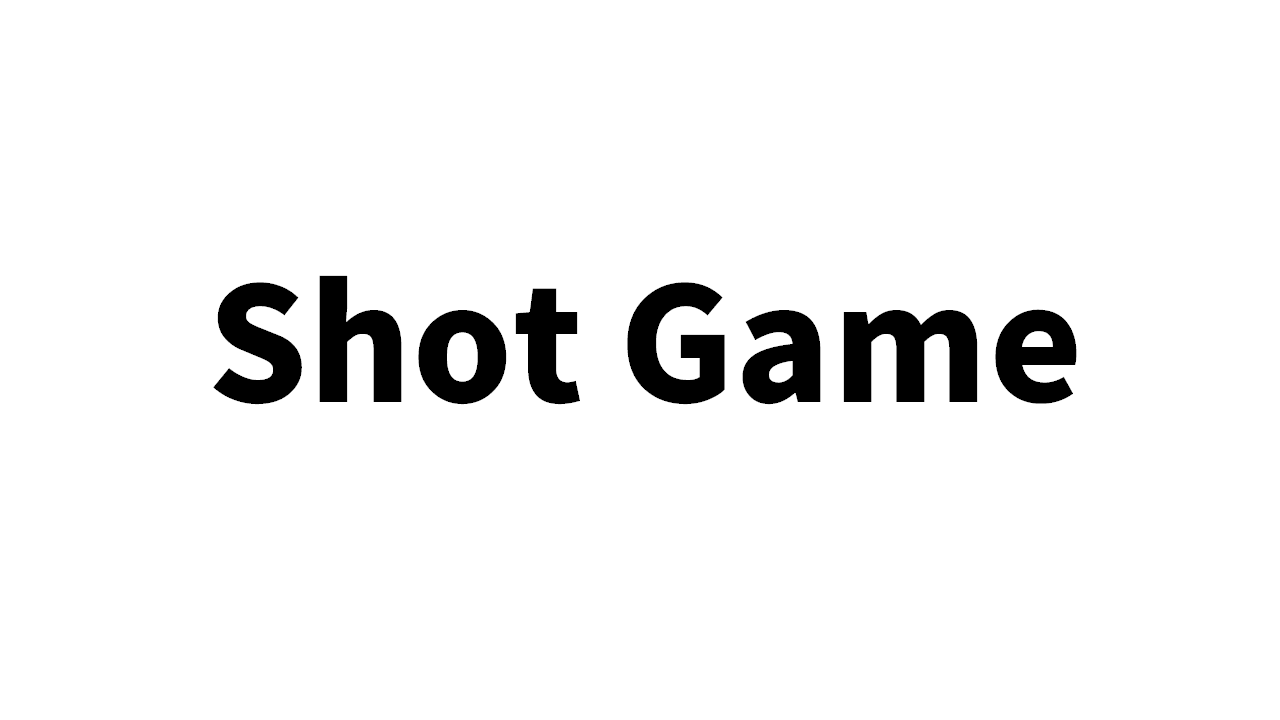
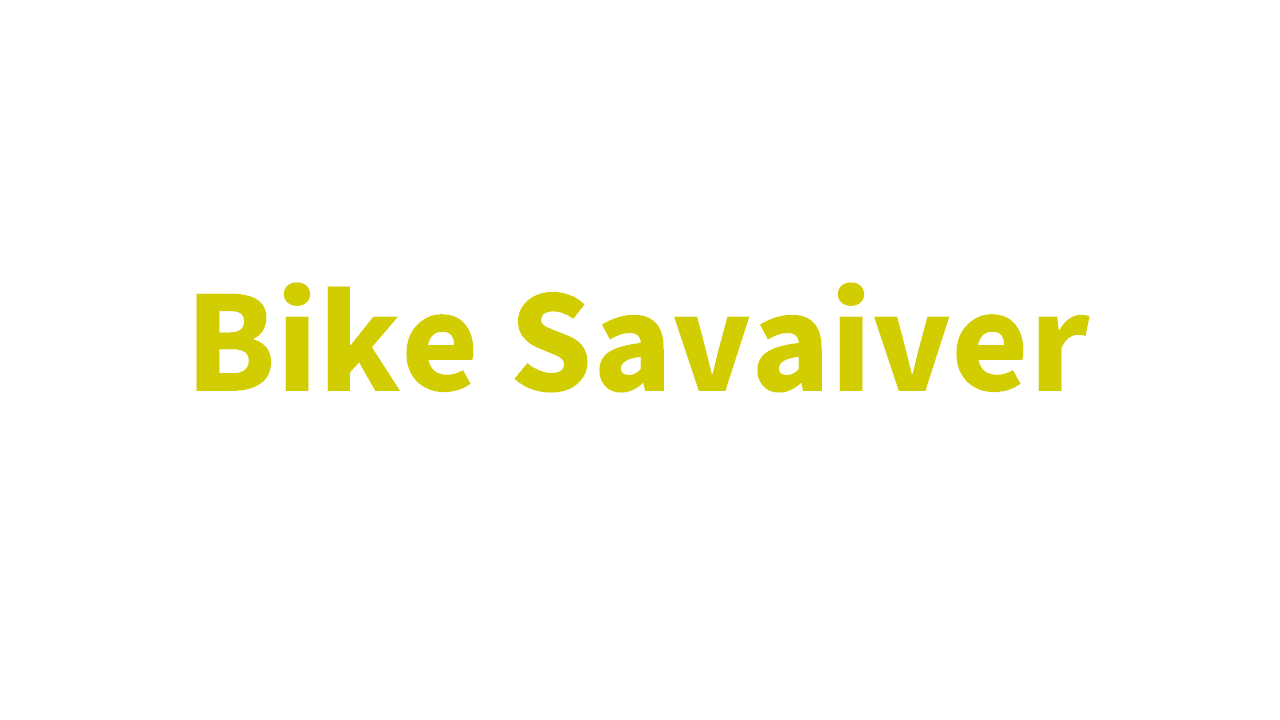
シーン切り替え完了

Changed region(s): [[0.1562, 0.3667, 0.875, 0.5806]]

diff --git a/DirectXGame/TitleScnce.cpp b/DirectXGame/TitleScnce.cpp
@@ -1,4 +1,6 @@
+#define NOMINMAX
 #include "TitleScnce.h"
+#include <algorithm> // std::min/max/absを使うために必要
 #include <numbers>
 
 TitleScnce::~TitleScnce() {
@@ -9,6 +11,11 @@ TitleScnce::~TitleScnce() {
 	delete sprite2_;
 	delete sprite3_;
 	delete sprite4_;
+
+	// ★追加: スライドスプライトの解放
+	for (int i = 0; i < kSlideCount; ++i) {
+		delete slideSprites_[i];
+	}
 }
 
 void TitleScnce::Initialize() {
@@ -30,11 +37,14 @@ void TitleScnce::Initialize() {
 
 	Timer_ = 0.0f;
 
+	// ★修正: 状態とフラグのリセットを整理
+	state_ = State::TitleScreen;
+	isFinished_ = false; // ★重要: シーン移行フラグを必ずリセット
+	isGameFinished_ = false;
+
 	// タイトルを中央に寄せるために調整
-	titleWorldTransform_.translation_ = {0.0f, 0.0f, 0.0f}; // x, y, zの値を調整
-
-	titleWorldTransformFont_.translation_ = {0.0f, 0.0f, 0.0f}; // x, y, zの値を調整
-
+	titleWorldTransform_.translation_ = {0.0f, 0.0f, 0.0f};
+	titleWorldTransformFont_.translation_ = {0.0f, 0.0f, 0.0f};
 	titleskydome.translation_ = {0.0f, 0.0f, 0.0f};
 
 	// sprite2_の初期位置を画面外（上）に設定
@@ -42,8 +52,32 @@ void TitleScnce::Initialize() {
 		sprite2_->SetPosition({0, -static_cast<float>(1280)}); // 画面上部外へ（高さは適宜調整）
 	}
 
-	// スプライトの初期化
+	// スプライトの初期化 (既存のタイトル画像用)
 	InitializeSprites();
+
+	// ★スライドアウト演出用スプライトの初期化
+	int screenWidth = 1280;
+	int screenHeight = 720;
+	int slideWidth = screenWidth / kSlideCount;
+
+	for (int i = 0; i < kSlideCount; ++i) {
+		// ★修正: 5種類の異なるテクスチャを読み込むように変更
+		std::string filename = "Transition/Slide" + std::to_string(i) + ".png";
+		slideTextureHandle_[i] = KamataEngine::TextureManager::Load(filename.c_str());
+
+		slideSprites_[i] = KamataEngine::Sprite::Create(
+		    slideTextureHandle_[i],
+		    // X座標: 画面外の左側 (-スプライト幅) に設定
+		    {-static_cast<float>(slideWidth), 0.0f}, // Y座標は0.0fで修正
+		    // スプライトサイズ: 画面幅の1/5, 画面高全体
+		    {static_cast<float>(slideWidth), static_cast<float>(screenHeight)});
+
+		slideSprites_[i]->SetAnchorPoint({0.0f, 0.0f});
+
+		// ★修正: スプライトの色を白（テクスチャの色をそのまま反映）に変更
+		// テクスチャを使いたいので、黒の強制設定を解除し、不透明な白（テクスチャの色そのまま）にします。
+		slideSprites_[i]->SetColor({1.0f, 1.0f, 1.0f, 1.0f});
+	}
 }
 
 void TitleScnce::InitializeSprites() {
@@ -52,7 +86,6 @@ void TitleScnce::InitializeSprites() {
 	sprites.push_back(sprite3_);
 	sprites.push_back(sprite4_);
 }
-
 
 void TitleScnce::Update() {
 	Timer_ += 1.0f; // フレームごとに加算
@@ -80,28 +113,65 @@ void TitleScnce::Update() {
 		}
 		break;
 
-	case State::Transition:
+	case State::Transition: { // ★スコープ追加
 		// 移行演出の更新
 		transitionTimer_ += 1.0f;
 
-		if (transitionTimer_ < kTransitionDuration) {
-			// 進行度 (0.0fから1.0f)
-			float t = transitionTimer_ / kTransitionDuration;
-			// ★ イージングを適用 (t_eased: 0.0 -> 1.0へ滑らかに変化)
-			float t_eased = EaseOutQuint(t);
+		// 変数定義をcase直下に移動
+		int screenWidth = 1500;
+		int slideWidth = screenWidth / kSlideCount;
+		float screenCenterX = static_cast<float>(screenWidth) / 2.0f;
 
-			// タイトルロゴ(sprite2)を上にスライドアウトさせる演出
+		// 演出が完全に終わるまで継続
+		if (transitionTimer_ < kTransitionDuration + kSlideDuration * kSlideCount) {
+
+			// --- A. 5枚のスライド処理 ---
+			for (int i = 0; i < kSlideCount; ++i) {
+				// 各スライドの開始時間 (時間差)
+				float startTime = kSlideDuration * i;
+
+				// スライド単体の演出時間 (現在の経過時間 - 遅延時間)
+				float slideElapsedTime = transitionTimer_ - startTime; // ★C2065エラー解消
+
+				if (slideElapsedTime >= 0.0f) {
+					// 進行度 (0.0fから1.0f)
+					float t = (std::min)(slideElapsedTime / kSlideDuration, 1.0f);
+
+					// t_eased の定義
+					float t_eased = EaseOutQuint(t);
+
+					// スライドの動作: 画面左端外 (-slideWidth) から、画面中央で停止するロジック
+					float startX = -static_cast<float>(slideWidth);
+
+					// 終了位置: 中央に5枚が隙間なく並んだ位置の、i番目のスライドの開始X座標
+					float totalSlidesWidth = static_cast<float>(slideWidth * kSlideCount);
+					float centerStartX = screenCenterX - (totalSlidesWidth / 2.0f);
+					float endX_center = centerStartX + static_cast<float>(slideWidth * i);
+
+					// 補間されたX座標 (画面中央で停止するアニメーション)
+					float currentX = startX * (1.0f - t_eased) + endX_center * t_eased;
+
+					// スライドパネルの位置を更新
+					slideSprites_[i]->SetPosition({currentX, 0.0f});
+				}
+			}
+
+			// --- B. タイトルロゴなどのフェードアウト処理 ---
+			float t_total = transitionTimer_ / kTransitionDuration;
+
 			if (sprite2_) {
-				float startY = 0.0f;
-				float endY = -static_cast<float>(720); // 画面外のY座標
-				// イージングでY座標を補間 (Lerp)
+				// sprite2はTransition開始時の位置から上にフェードアウト
+				float startY = sprite2_->GetPosition().y;
+				float endY = -static_cast<float>(720);
+				float t_eased = EaseOutQuint(t_total); // イージング適用
+
 				float currentY = startY * (1.0f - t_eased) + endY * t_eased;
 				sprite2_->SetPosition({sprite2_->GetPosition().x, currentY});
 			}
 
-			// "Hit Enter" (sprite3) をフェードアウト
 			if (sprite3_) {
-				sprite3_->SetColor({1.0f, 1.0f, 1.0f, 1.0f - t});
+				// sprite3は透明度を下げてフェードアウト
+				sprite3_->SetColor({1.0f, 1.0f, 1.0f, (std::max)(0.0f, 1.0f - t_total)});
 			}
 
 		} else {
@@ -109,36 +179,33 @@ void TitleScnce::Update() {
 			state_ = State::Finished;
 			isFinished_ = true; // 次のシーン (Tutorial) へ移行するためのフラグ
 		}
-		break;
+	} // ★スコープ終了
+	break;
 
 	case State::Finished:
 		break;
 	}
 }
 
+
 void TitleScnce::Draw() {
 	ID3D12GraphicsCommandList* commandList = dxCommon_->GetCommandList();
 
-	// 3Dオブジェクト描画
-	KamataEngine::Model::PreDraw();
-	KamataEngine::Model::PostDraw();
+	// 3Dオブジェクト描画 (省略)
 
 	// スプライト描画
 	KamataEngine::Sprite::PreDraw(commandList);
 
-	// ★ここで背景スプライトを全画面に描画
-	// 例: 1280x720の青色背景
-	// KamataEngine::Sprite::DrawRect({0, 0}, {1280, 720}, {0.4f, 0.6f, 0.9f, 1.0f}); // RGBA
-
+	// 1. 固定要素を描画
 	sprite_->SetPosition({0, 0});
 	sprite_->Draw();
 
-	// タイトル画像
+	// 2. タイトルロゴを描画
 	if (sprite2_) {
 		sprite2_->Draw();
 	}
 
-	// 「Hit Enter」
+	// 3. 「Hit Enter」を描画
 	if (state_ == State::TitleScreen) {
 		// TitleScreen時は点滅制御
 		if (sprite3_ && static_cast<int>(Timer_) % 60 < 30) {
@@ -150,6 +217,15 @@ void TitleScnce::Draw() {
 		if (sprite3_) {
 			sprite3_->SetPosition({0, 0});
 			sprite3_->Draw();
+		}
+	}
+
+	// ★最前面に描画: Transition状態でのみスライドを描画する
+	if (state_ == State::Transition) {
+		for (int i = 0; i < kSlideCount; ++i) {
+			if (slideSprites_[i]) {
+				slideSprites_[i]->Draw();
+			}
 		}
 	}
 

diff --git a/DirectXGame/main.cpp b/DirectXGame/main.cpp
@@ -17,7 +17,7 @@ int WINAPI WinMain(_In_ HINSTANCE, _In_opt_ HINSTANCE, _In_ LPSTR, _In_ int) {
 	// 初期化処理
 	//  // エンジンの初期化
 
-	KamataEngine::Initialize(L"LE3C_26_ムラタ_トモキ");
+	KamataEngine::Initialize(L"Bike_Savaiver");
 
 	DirectXCommon* dxCommon = DirectXCommon::GetInstance();
 
@@ -47,7 +47,7 @@ int WINAPI WinMain(_In_ HINSTANCE, _In_opt_ HINSTANCE, _In_ LPSTR, _In_ int) {
 
 		dxCommon->PreDraw();
 
-				// シーンごとに処理を分岐
+		// シーンごとに処理を分岐
 		if (scene == Scene::Title) {
 			titleScnce->Update();
 			titleScnce->Draw();
@@ -55,13 +55,21 @@ int WINAPI WinMain(_In_ HINSTANCE, _In_opt_ HINSTANCE, _In_ LPSTR, _In_ int) {
 				// タイトル演出完了後、Tutorialシーンへ移行
 				scene = Scene::Tutorial;
 			}
-		} else if (scene == Scene::Tutorial) { // ★ Tutorialシーンの処理
+		} else if (scene == Scene::Tutorial) {
 			tutorialScnce->Update();
 			tutorialScnce->Draw();
-			if (tutorialScnce->IsFinished()) {
-				// チュートリアル終了後、Gameへ移行
+
+			if (tutorialScnce->IsBackToTitle()) {
+				scene = Scene::Title;
+				// ★TitleScnceを再初期化 (Initialize内でisFinished_がリセットされる)
+				titleScnce->Initialize();
+
+				// ★追加: チュートリアルシーンも再初期化し、次のゲーム開始に備える
+				tutorialScnce->Initialize(); // isFinished_とisBackToTitle_をリセット
+			} else if (tutorialScnce->IsFinished()) {
 				scene = Scene::Game;
 			}
+
 		} else if (scene == Scene::Game) {
 			gameScnce->Update();
 			gameScnce->Draw();

diff --git a/DirectXGame/TutorialScene.cpp b/DirectXGame/TutorialScene.cpp
@@ -21,10 +21,11 @@ void TutorialScene::Initialize() {
 	tutorialSprite_ = KamataEngine::Sprite::Create(textureHandle_, {0, 0});
 
 	isFinished_ = false;
+	isBackToTitle_ = false; // ★重要: 戻るフラグを確実にリセット
 	timer_ = 0.0f;
 
 	// 初期状態設定
-	state_ = State::FadeIn; // 明示的に初期状態を設定
+	state_ = State::FadeIn;
 	fadeInTimer_ = 0.0f;
 }
 
@@ -43,13 +44,17 @@ void TutorialScene::Update() {
 		break;
 
 	case State::Active:
+		// ★スペースキーでタイトルへ戻る
+		if (input_->TriggerKey(DIK_SPACE)) {
+			isBackToTitle_ = true;
+		}
+
 		// ★ ゲームシーンへ移行する条件
-		// Enterキーが押されたら終了フラグを立てる (Transition状態をスキップ)
+		// Enterキーが押されたら終了フラグを立てる
 		if (input_->TriggerKey(DIK_RETURN)) {
 			isFinished_ = true;
 		}
 		// TODO: 必要に応じて、説明スプライトのアニメーションや点滅などをここに追加
-		// 既存の「Press Enter to Start」点滅表示もActive状態でのみ動作させることが推奨されます。
 		break;
 
 	case State::Transition:

diff --git a/DirectXGame/TitleScnce.h b/DirectXGame/TitleScnce.h
@@ -59,6 +59,7 @@ private:
 	State state_ = State::TitleScreen; // 初期状態
 
 	// 演出時間（フレーム数）
+	// 演出時間（フレーム数）
 	static inline const float kTransitionDuration = 60.0f;
 	float transitionTimer_ = 0.0f; // 演出タイマー
 
@@ -100,4 +101,17 @@ private:
 	uint32_t TitleSEHandle3_ = 0;
 	uint32_t voiceHandle_ = 0;
 	uint32_t voiceHandle2_ = 0;
+
+	// ★追加: スライドアウト演出用
+	static inline const int kSlideCount = 5; // スライド画像の枚数
+	// 1枚のスライドが中央に停止するまでの時間
+	// static inline const float kSlideDuration = 10.0f; // ★元の値
+	static inline const float kSlideDuration = 30.0f; // ★修正: 30Fに延長（停止アニメーションとして適切）
+    
+    
+
+	// ★追加: スライド画像用のテクスチャハンドルとスプライト
+	// TitleScnce.hの既存のsprite_*変数とは別に、スライド専用のものを用意する
+	uint32_t slideTextureHandle_[kSlideCount];
+	KamataEngine::Sprite* slideSprites_[kSlideCount];
 };

diff --git a/DirectXGame/TutorialScene.h b/DirectXGame/TutorialScene.h
@@ -32,11 +32,15 @@ public:
 	// シーンが終了したか (ゲームシーンへ移行する準備ができたか)
 	bool IsFinished() const { return isFinished_; }
 
+	// ★追加: タイトルシーンへ戻るフラグ
+	bool IsBackToTitle() const { return isBackToTitle_; }
+
 private:
 	KamataEngine::DirectXCommon* dxCommon_ = nullptr;
 	KamataEngine::Input* input_ = nullptr;
 
 	bool isFinished_ = false;
+	bool isBackToTitle_ = false; // ★追加: タイトルシーンへ戻る
 
 	// ゲーム説明用のスプライト
 	uint32_t textureHandle_ = 0;
